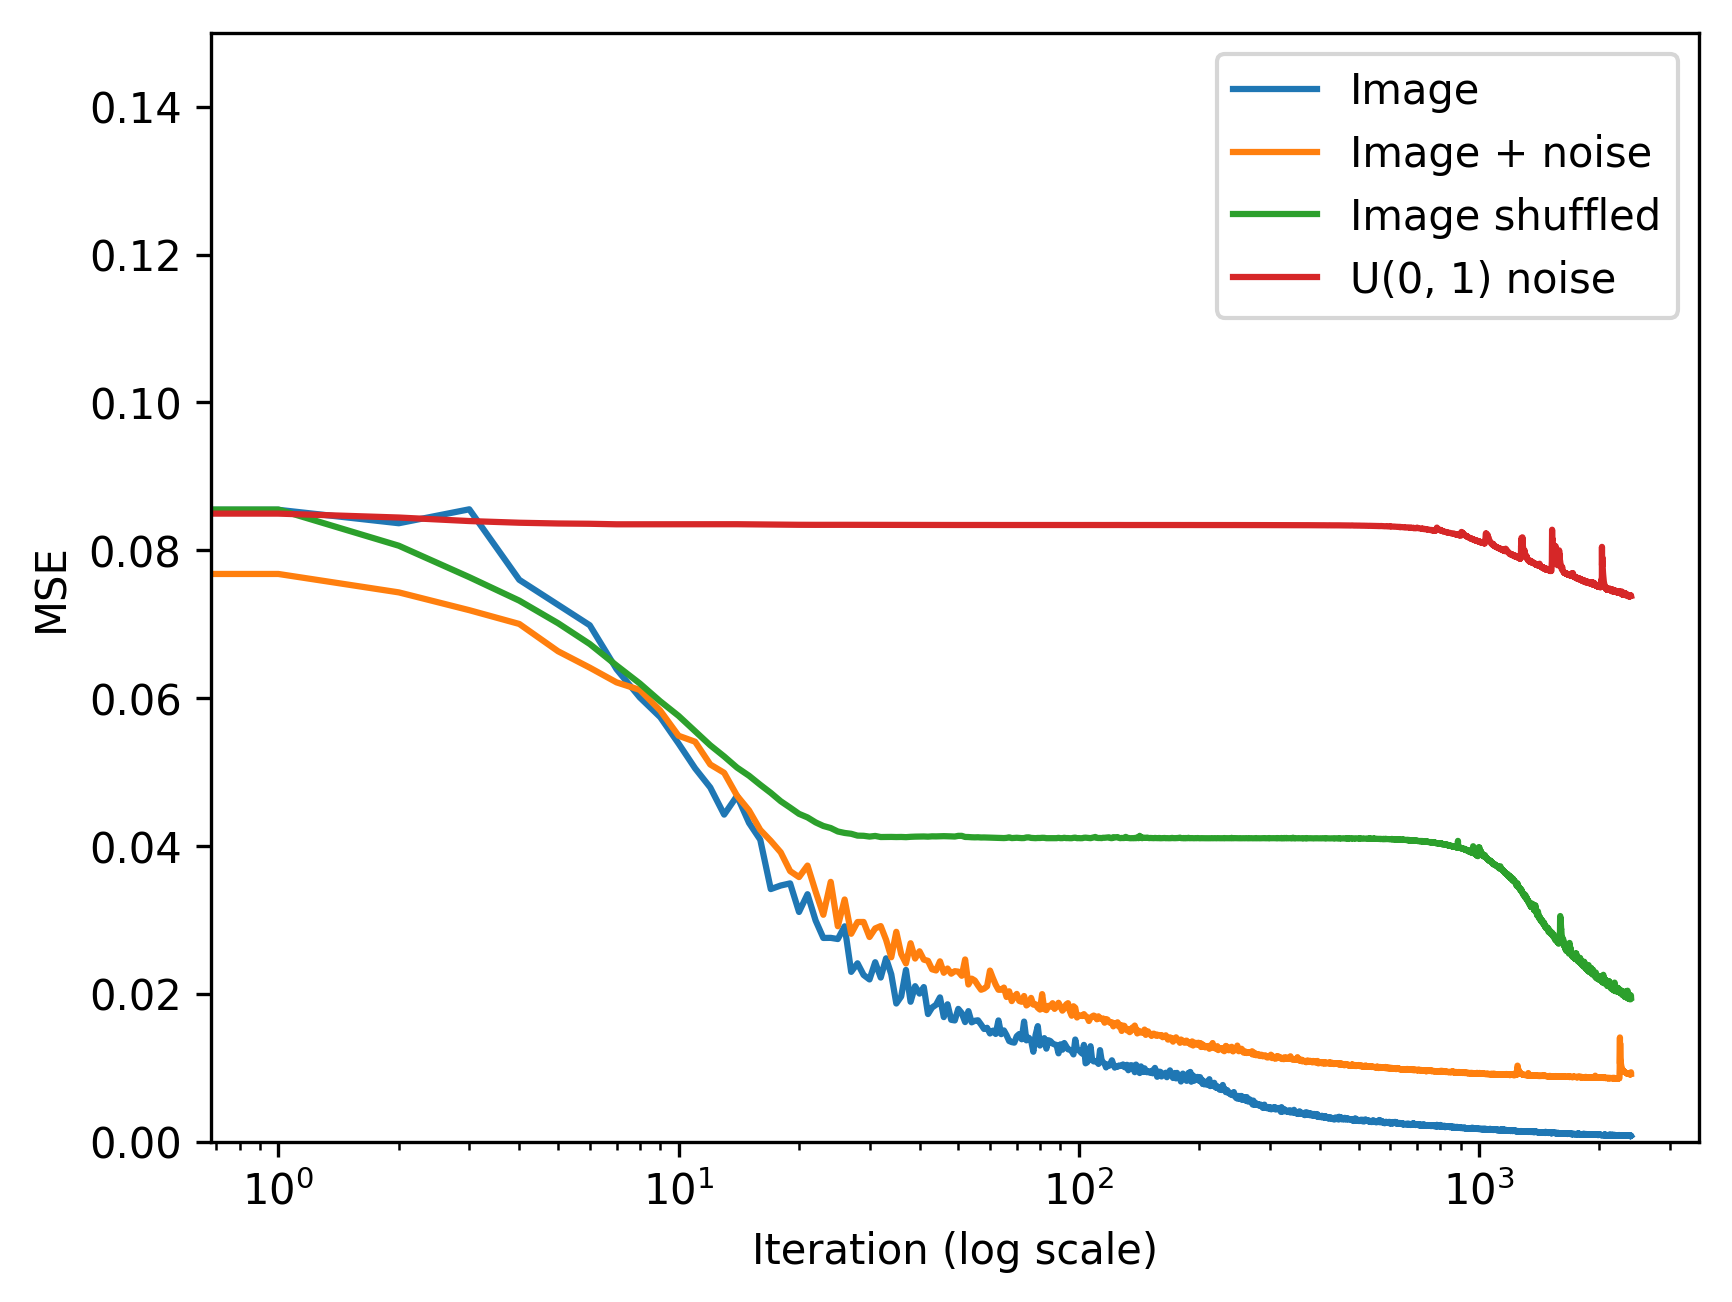
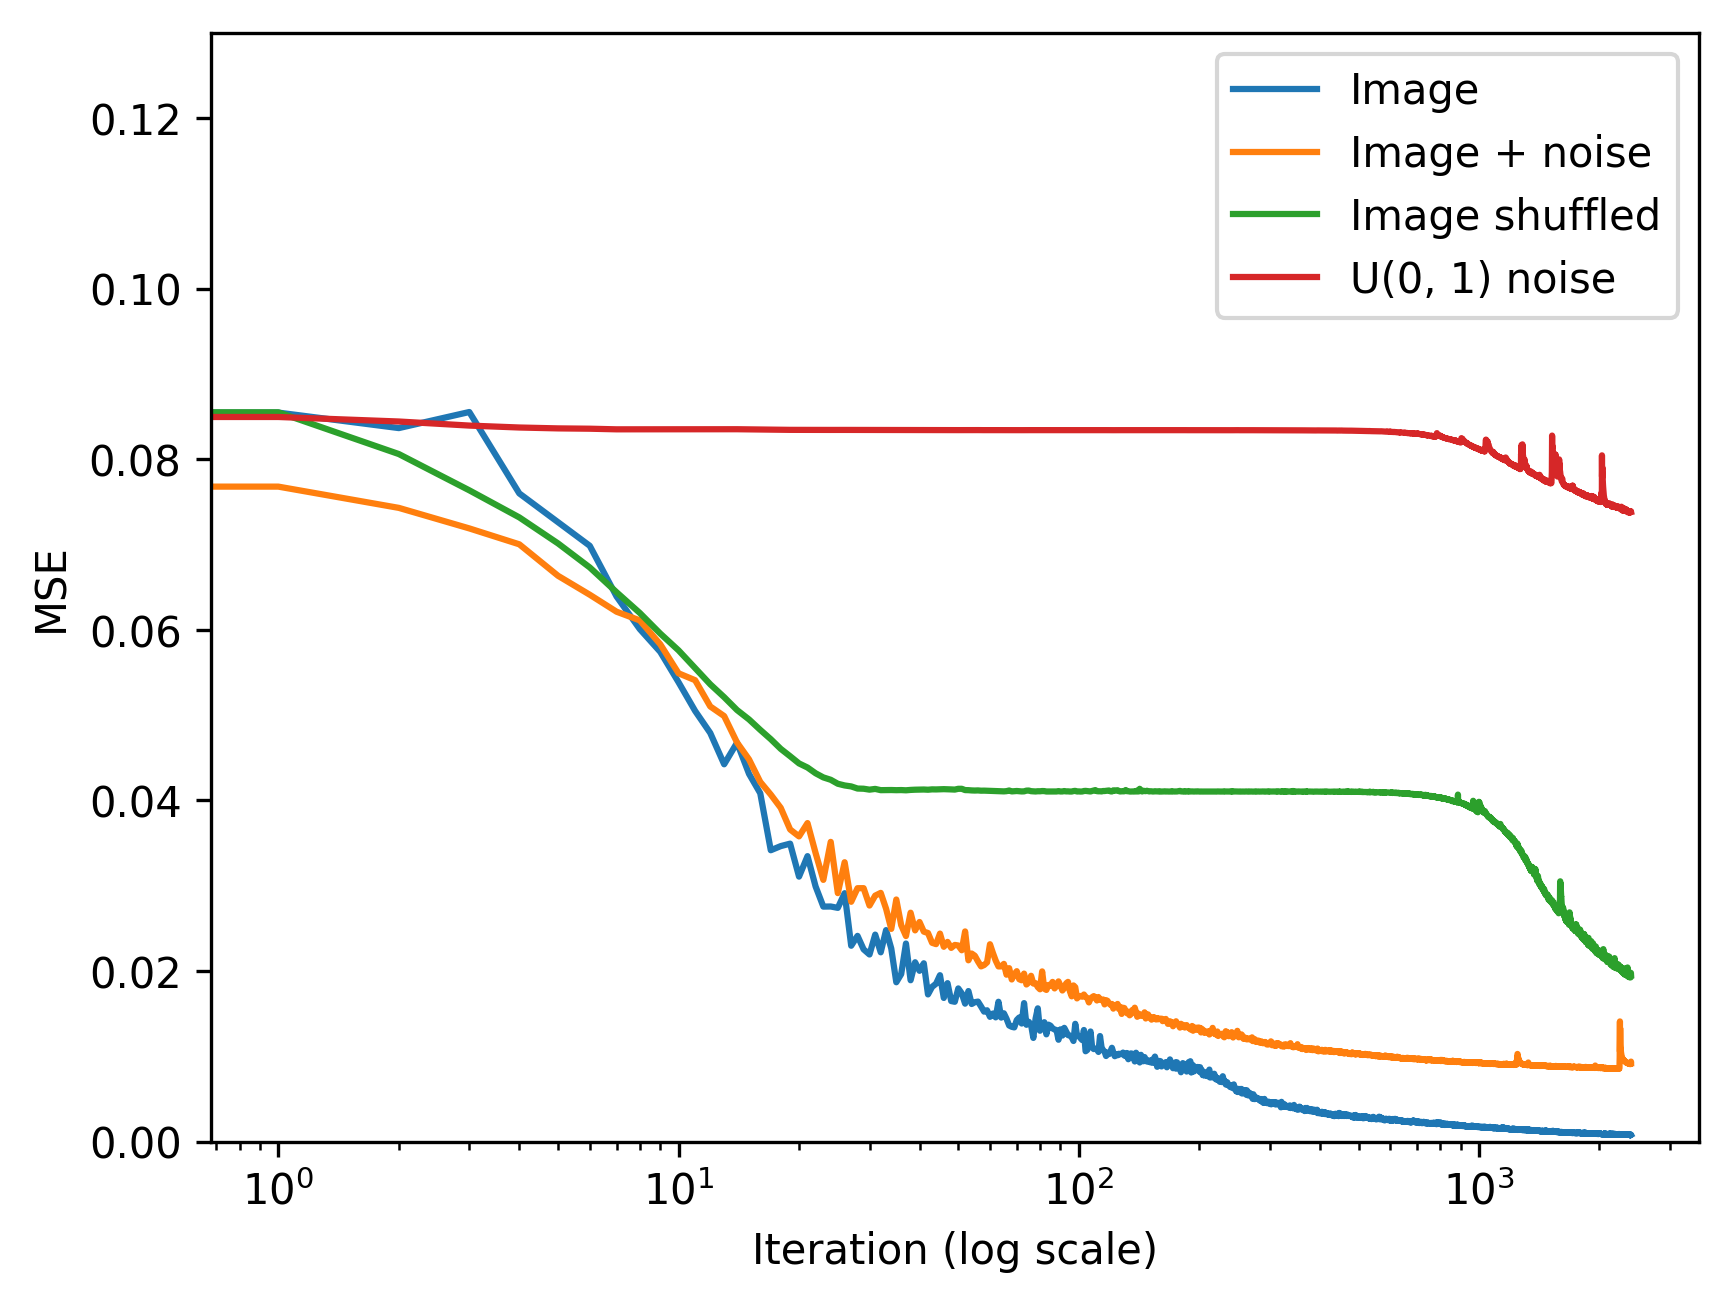
inpainting

diff --git a/Lab2-DeepImagePrior/inpainting.py b/Lab2-DeepImagePrior/inpainting.py
@@ -1,0 +1,143 @@
+# --- Setup ---
+from __future__ import print_function
+import matplotlib.pyplot as plt
+%matplotlib inline
+
+import os
+# os.environ['CUDA_VISIBLE_DEVICES'] = '1'
+
+import numpy as np
+from models.resnet import ResNet
+from models.unet import UNet
+from models.skip import skip
+import torch
+import torch.optim
+
+from torch.autograd import Variable
+from utils.inpainting_utils import *
+
+torch.backends.cudnn.enabled = True
+torch.backends.cudnn.benchmark =True
+dtype = torch.cuda.FloatTensor
+
+PLOT = True
+imsize=-1
+dim_div_by = 64
+dtype = torch.cuda.FloatTensor
+
+# --- Load Image ---
+img_path = "./images/bonus/2.png"
+mask_path = "./images/bonus/2_mask.png"
+
+NET_TYPE = 'skip_depth6' # one of skip_depth4|skip_depth2|UNET|ResNet
+img_pil, img_np = get_image(img_path, imsize)
+img_mask_pil, img_mask_np = get_image(mask_path, imsize)
+
+# centered crop
+img_mask_pil = crop_image(img_mask_pil, dim_div_by)
+img_pil      = crop_image(img_pil,      dim_div_by)
+
+img_np      = pil_to_np(img_pil)
+img_mask_np = pil_to_np(img_mask_pil)
+
+# --- Model ---
+img_mask_var = np_to_var(img_mask_np).type(dtype)
+
+pad = 'reflection' # 'zero'
+OPT_OVER = 'net'
+OPTIMIZER = 'adam'
+INPUT = 'noise'
+
+input_depth = 1
+num_iter = 3000
+show_every = 500
+figsize = 8
+reg_noise_std = 0.00
+param_noise = True
+
+if 'skip' in NET_TYPE:
+    
+    depth = int(NET_TYPE[-1])
+    net = skip(input_depth, img_np.shape[0], 
+            num_channels_down = [16, 32, 64, 128, 128, 128][:depth],
+            num_channels_up =   [16, 32, 64, 128, 128, 128][:depth],
+            num_channels_skip =    [0, 0, 0, 0, 0, 0][:depth],  
+            filter_size_up = 3,filter_size_down = 5,  filter_skip_size=1,
+            upsample_mode='nearest', # downsample_mode='avg',
+            need1x1_up=False,
+            need_sigmoid=True, need_bias=True, pad=pad, act_fun='LeakyReLU').type(dtype)
+    
+    LR = 0.01 
+    
+elif NET_TYPE == 'UNET':
+    
+    net = UNet(num_input_channels=input_depth, num_output_channels=3, 
+                feature_scale=8, more_layers=1, 
+                concat_x=False, upsample_mode='deconv', 
+                pad='zero', norm_layer=torch.nn.InstanceNorm2d, need_sigmoid=True, need_bias=True)
+    
+    LR = 0.001
+    param_noise = False
+    
+elif NET_TYPE == 'ResNet':
+    
+    net = ResNet(input_depth, img_np.shape[0], 8, 32, need_sigmoid=True, act_fun='LeakyReLU')
+    
+    LR = 0.001
+    param_noise = False
+    
+else:
+    assert False
+
+net = net.type(dtype)
+net_input = get_noise(input_depth, INPUT, img_np.shape[1:]).type(dtype)
+
+# Compute number of parameters
+s  = sum(np.prod(list(p.size())) for p in net.parameters())
+print ('Number of params: %d' % s)
+
+# Loss
+mse = torch.nn.MSELoss().type(dtype)
+
+img_var = np_to_var(img_np).type(dtype)
+mask_var = np_to_var(img_mask_np).type(dtype)
+
+# --- Loop ---
+i = 0
+def closure():
+    
+    global i
+    
+    if param_noise:
+        for n in [x for x in net.parameters() if len(x.size()) == 4]:
+            n.data += n.data.clone().normal_()*n.data.std()/50
+    
+    if reg_noise_std > 0:
+        net_input.data = net_input_saved + (noise.normal_() * reg_noise_std)
+        
+        
+    out = net(net_input)
+   
+    total_loss = mse(out * mask_var, img_var * mask_var)
+    total_loss.backward()
+        
+    print ('Iteration %05d    Loss %f' % (i, total_loss.data[0]), '\r', end='')
+    if  PLOT and i % show_every == 0:
+        out_np = var_to_np(out)
+        plot_image_grid([np.clip(out_np, 0, 1)], factor=figsize, nrow=1)
+        plt.savefig("./out_imgs/bonus-" + str(i) + ".png", bbox_inches="tight")
+        plt.close()
+        
+    i += 1
+
+    return total_loss
+
+# --- Training ---
+net_input_saved = net_input.data.clone()
+noise = net_input.data.clone()
+p = get_params(OPT_OVER, net, net_input)
+optimize(OPTIMIZER, p, closure, LR, num_iter)
+out_np = np.clip(var_to_np(net(net_input)), 0, 1)
+plot_image_grid([img_np, img_mask_np, out_np], factor=4, nrow=1)
+plt.savefig("./out_imgs/bonus-final.png", bbox_inches="tight")
+plt.close()

diff --git a/Lab2-DeepImagePrior/plot.py b/Lab2-DeepImagePrior/plot.py
@@ -33,7 +33,7 @@ plt.plot(range(2400), mse_2_dta, label="Image + noise")
 plt.plot(range(2400), mse_3_dta, label="Image shuffled")
 plt.plot(range(2400), mse_4_dta, label="U(0, 1) noise")
 plt.legend()
-plt.ylim([0., .15])
+plt.ylim([0., .13])
 plt.xlabel("Iteration (log scale)")
 plt.xscale("log")
 plt.ylabel('MSE')
